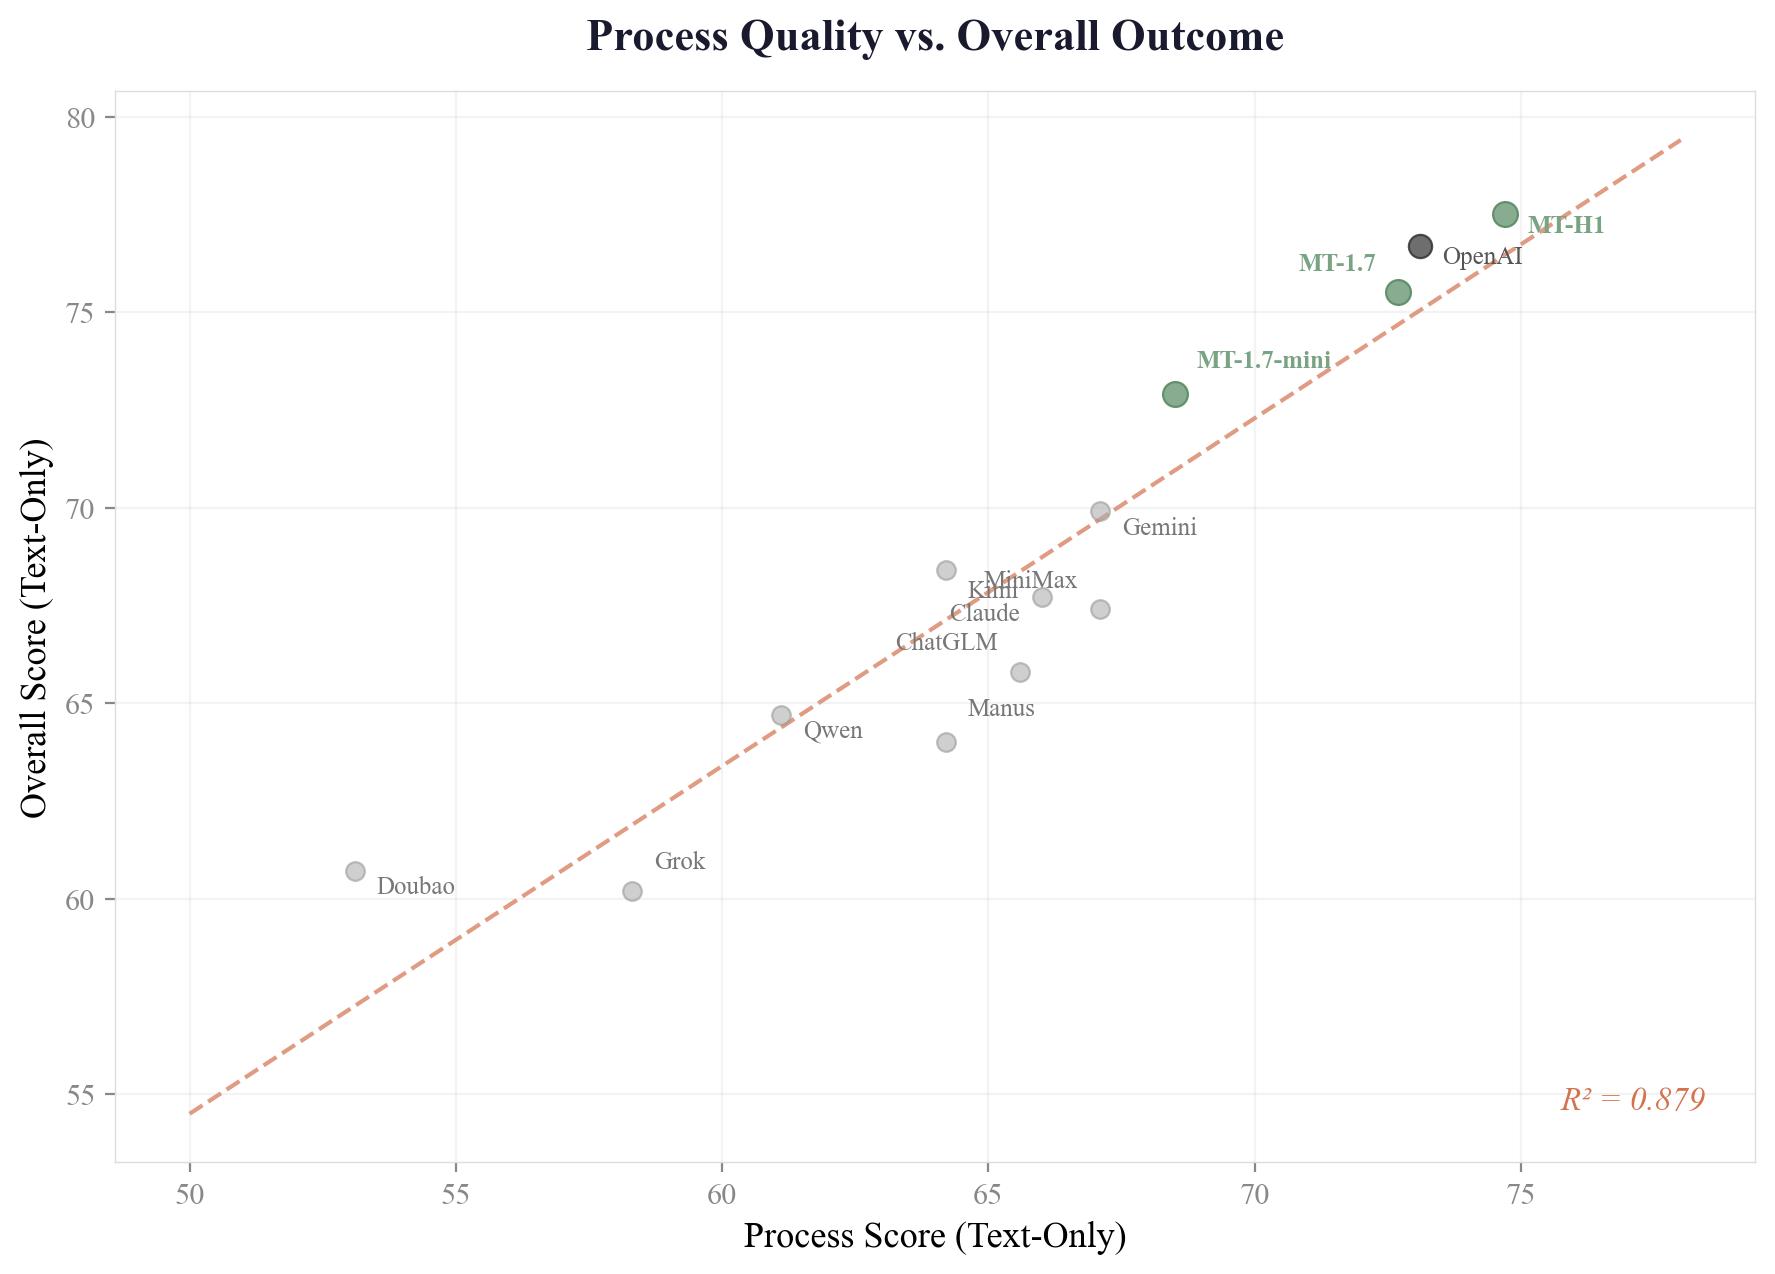
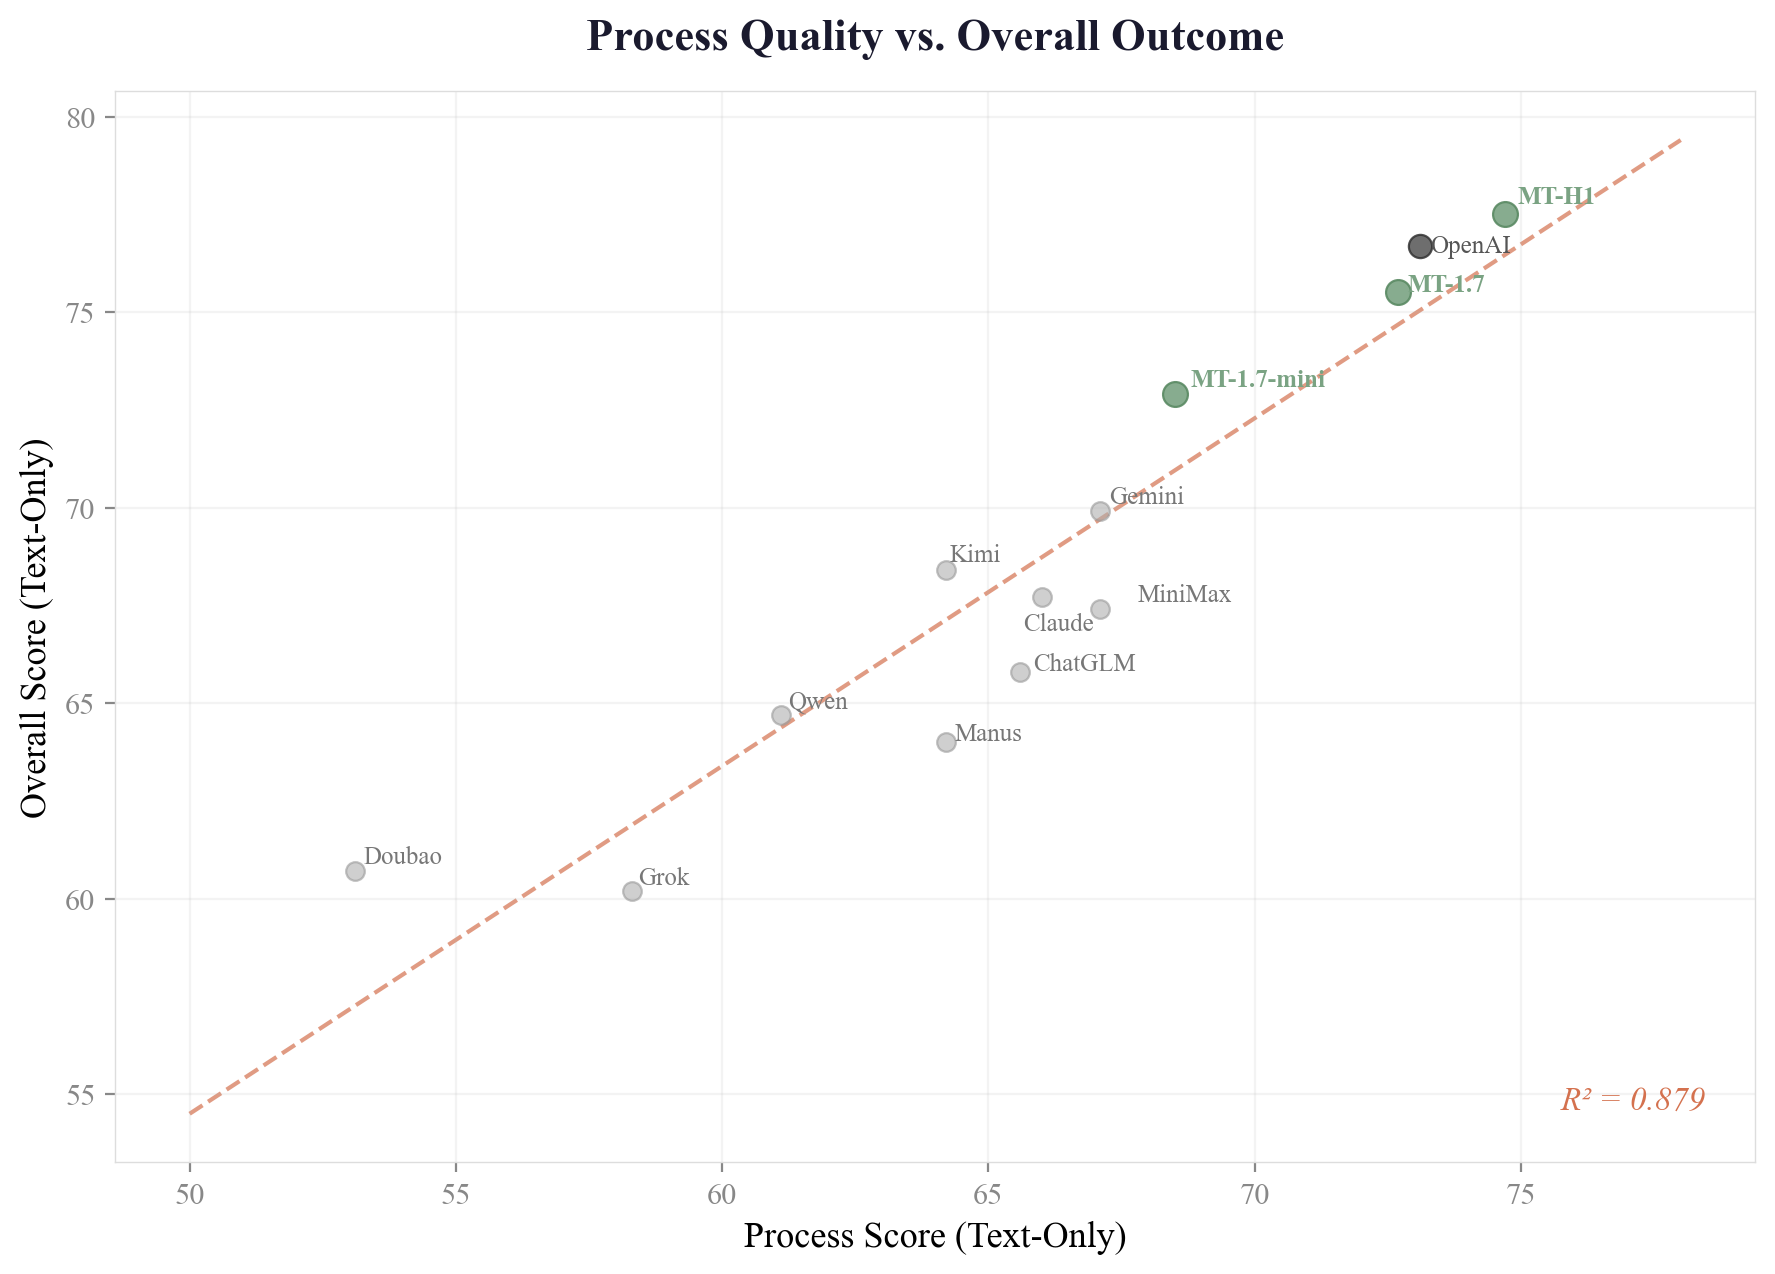
Fix scatter plot label overlap and restructure findings into 6 sections
- Use adjustText to auto-resolve label overlaps in process-outcome scatter
- Remove connector arrows for cleaner appearance
- Restructure findings: 6 focused sections with 1 figure each
- Add Conclusion and Resources sections
- Enrich Performance with three-tier analysis from paper

diff --git a/generate_figures.py b/generate_figures.py
@@ -1,6 +1,7 @@
 import matplotlib.pyplot as plt
 import matplotlib.patches as mpatches
 import numpy as np
+from adjustText import adjust_text
 
 plt.rcParams.update({
     'font.family': 'serif',
@@ -133,17 +134,6 @@ scatter_sizes = {'miro': 80, 'openai': 70, 'other': 45}
 scatter_alpha = {'miro': 0.9, 'openai': 0.85, 'other': 0.6}
 scatter_edge = {'miro': '#5A8A63', 'openai': '#333', 'other': '#999'}
 
-# Label offsets (dx, dy, ha)
-label_cfg = {
-    'Doubao': (1.0, -1.0, 'left'), 'Grok': (1.0, 1.0, 'left'),
-    'Qwen': (1.0, -1.0, 'left'), 'Kimi': (1.0, -1.2, 'left'),
-    'Manus': (1.0, 1.2, 'left'), 'ChatGLM': (-1.0, 1.0, 'right'),
-    'Claude': (-1.0, -1.0, 'right'), 'MiniMax': (-1.0, 1.0, 'right'),
-    'Gemini': (1.0, -1.0, 'left'), 'OpenAI': (1.0, -0.8, 'left'),
-    'MT-1.7-mini': (1.0, 1.2, 'left'), 'MT-1.7': (-1.0, 1.0, 'right'),
-    'MT-H1': (1.0, -0.8, 'left'),
-}
-
 fig, ax = plt.subplots(figsize=(9, 6.5))
 
 xs = np.array([d['x'] for d in scatter_data])
@@ -164,11 +154,22 @@ for d in sorted(scatter_data, key=lambda d: 0 if d['group'] == 'other' else 1):
     g = d['group']
     ax.scatter(d['x'], d['y'], s=scatter_sizes[g], c=scatter_colors[g],
                alpha=scatter_alpha[g], edgecolors=scatter_edge[g], linewidths=0.8, zorder=3)
-    cfg = label_cfg.get(d['short'], (1.0, 0, 'left'))
+
+# Labels — placed by adjustText to avoid overlaps
+texts = []
+for d in scatter_data:
+    g = d['group']
     fw = 'bold' if g == 'miro' else 'normal'
     lc = MIRO if g == 'miro' else (OPENAI if g == 'openai' else '#777')
-    ax.annotate(d['short'], (d['x'], d['y']), xytext=(cfg[0] * 8, cfg[1] * 8),
-                textcoords='offset points', fontsize=9, fontweight=fw, color=lc, ha=cfg[2])
+    t = ax.text(d['x'], d['y'], d['short'], fontsize=9, fontweight=fw, color=lc)
+    texts.append(t)
+
+adjust_text(texts, x=[d['x'] for d in scatter_data], y=[d['y'] for d in scatter_data],
+            arrowprops=dict(arrowstyle='-', color='none', lw=0),
+            force_text=(0.8, 0.8), force_points=(1.5, 1.5),
+            expand_text=(1.2, 1.4), expand_points=(1.6, 1.6),
+            only_move={'text': 'xy', 'points': 'xy'},
+            max_move=30)
 
 ax.text(0.97, 0.05, f'R² = {r2:.3f}', transform=ax.transAxes, ha='right',
         fontsize=12, fontstyle='italic', color=KIMI)
